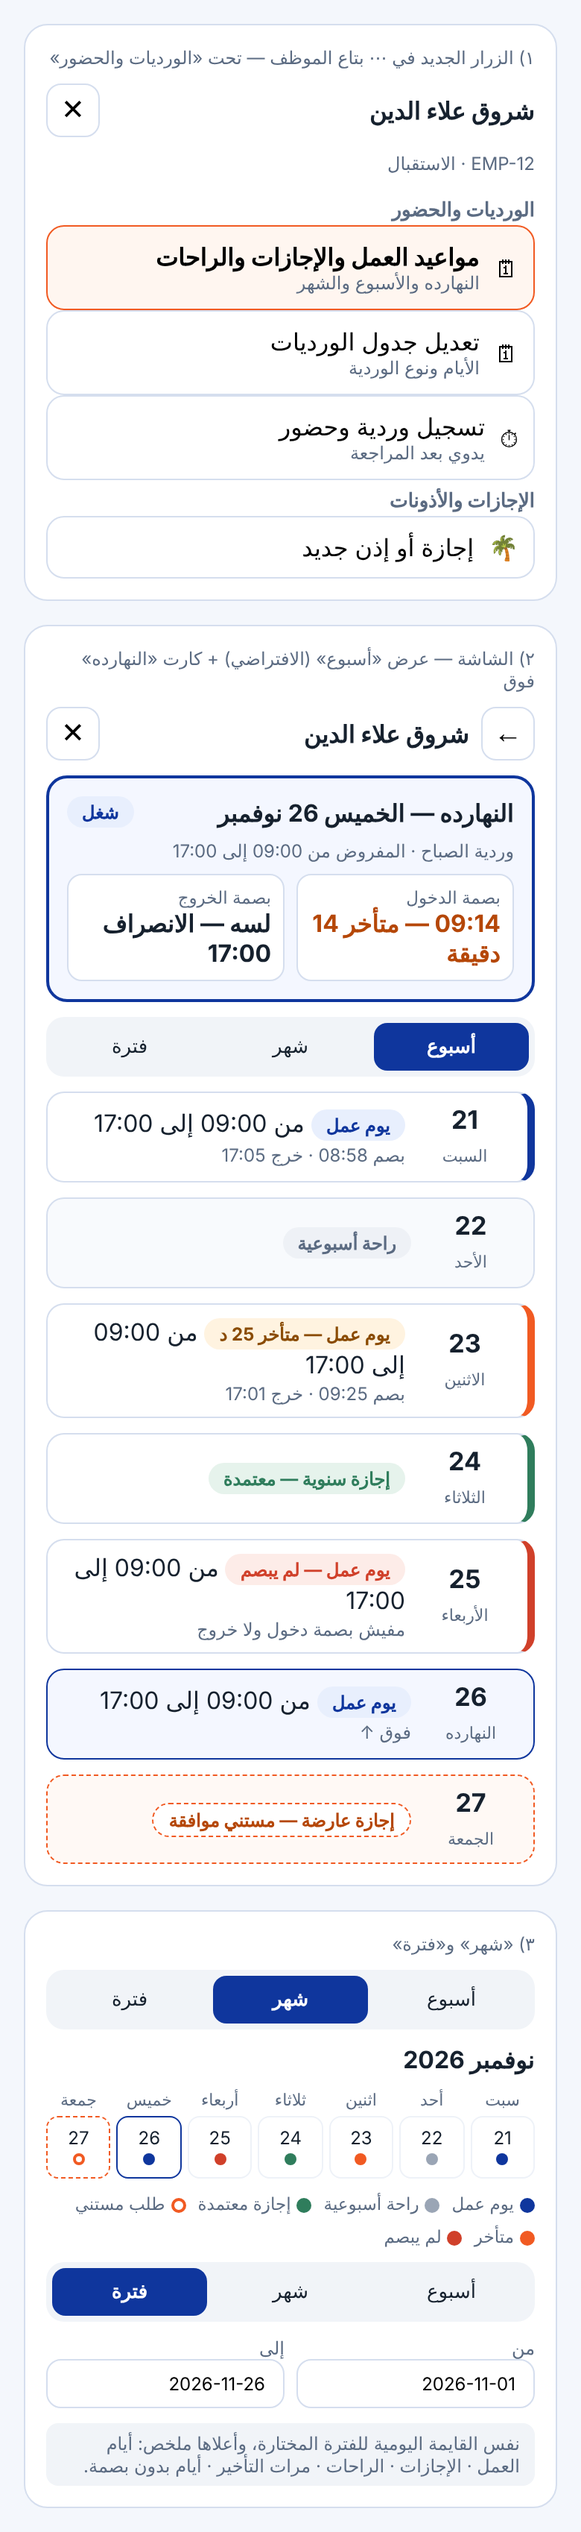
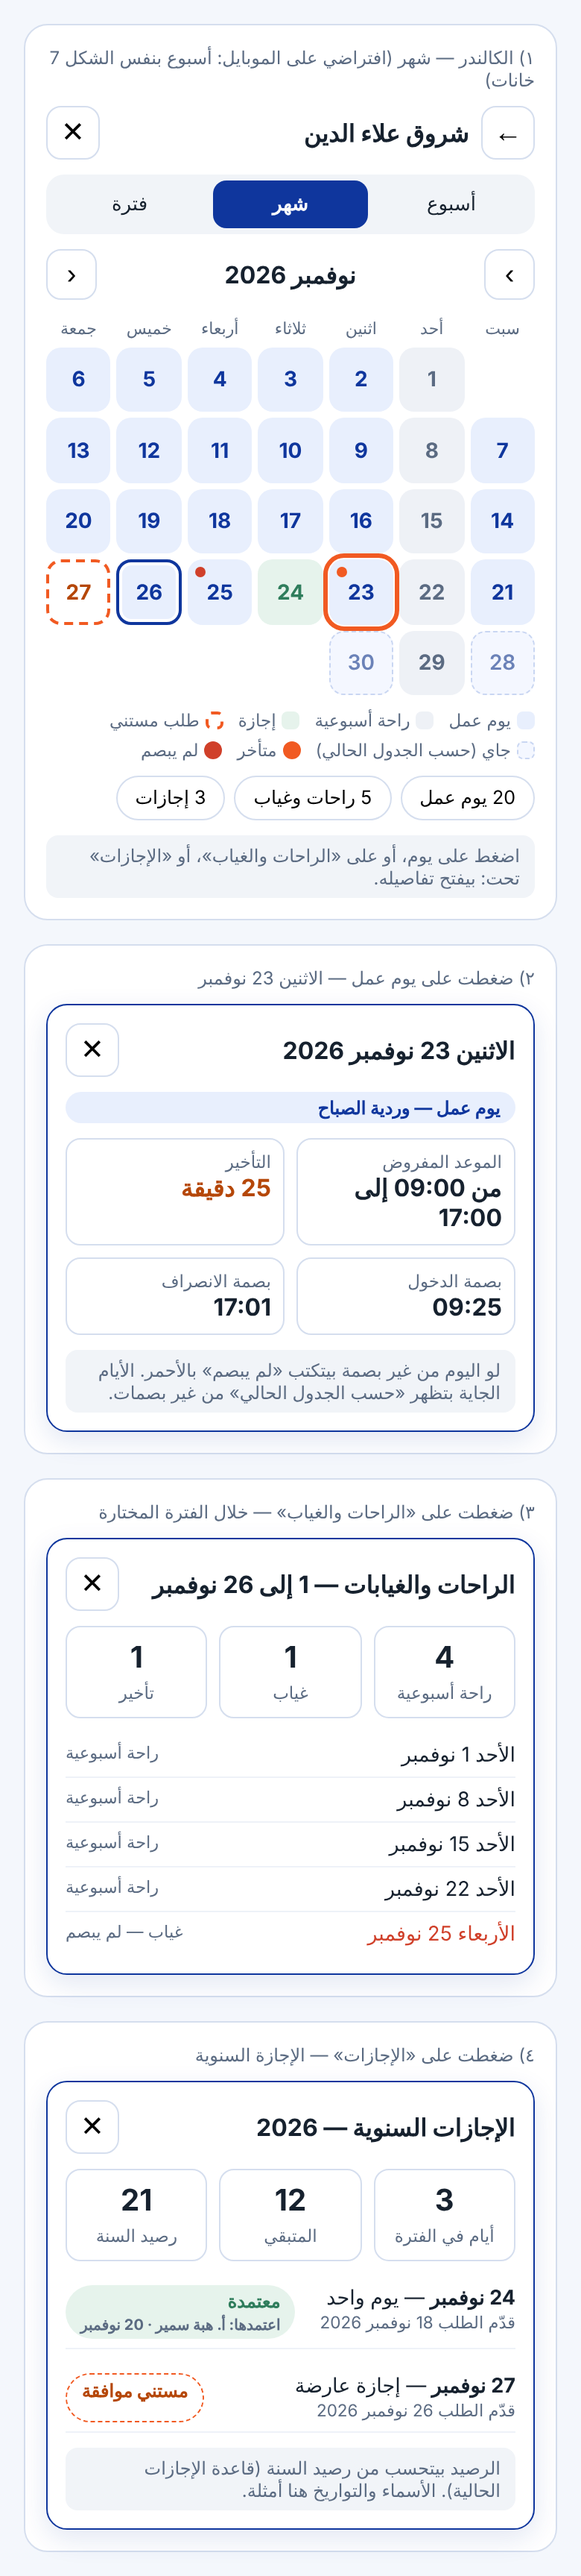
Mockup: work schedule as a real calendar with day/rest/leave details

diff --git a/docs/ui-references/mockups/hr-work-schedule.html b/docs/ui-references/mockups/hr-work-schedule.html
@@ -1,51 +1,57 @@
-<!doctype html><html lang="ar" dir="rtl"><meta charset="utf-8"><meta name="viewport" content="width=device-width,initial-scale=1"><title>تصور: مواعيد العمل والإجازات والراحات</title>
+<!doctype html><html lang="ar" dir="rtl"><meta charset="utf-8"><meta name="viewport" content="width=device-width,initial-scale=1"><title>تصور: مواعيد العمل والإجازات والراحات — كالندر</title>
 <style>*{box-sizing:border-box}body{margin:0;padding:16px;background:#f4f7fc;font-family:"Hiragino Kaku","BigVesta Arabic",system-ui,Tahoma,sans-serif;color:#16212E}
-.wrap{display:grid;grid-template-columns:repeat(3,minmax(0,1fr));gap:16px;max-width:1240px;margin:auto}
-.card{background:#fff;border:1px solid #D5DEEE;border-radius:16px;padding:14px;display:grid;gap:10px;align-content:start;min-width:0}.cap{font-size:12px;color:#5b6b82}h3,p{margin:0}h3{font-size:17px}
-.btn{border:1px solid #D5DEEE;background:#fff;border-radius:10px;padding:8px 12px;font:inherit;min-width:0}.pri{background:#0F369D;color:#fff;border-color:#0F369D}
+.wrap{display:grid;grid-template-columns:repeat(2,minmax(0,1fr));gap:16px;max-width:1100px;margin:auto}
+.card{background:#fff;border:1px solid #D5DEEE;border-radius:16px;padding:14px;display:grid;gap:10px;align-content:start;min-width:0}.cap{font-size:12px;color:#5b6b82}h3,p{margin:0}
+.btn{border:1px solid #D5DEEE;background:#fff;border-radius:10px;padding:8px 12px;font:inherit;min-width:0}
 .head{display:flex;align-items:center;justify-content:space-between;gap:8px}.hl{display:flex;align-items:center;gap:8px;min-width:0}.ic{width:36px;height:36px;border:1px solid #D5DEEE;background:#fff;border-radius:10px;font-size:19px;line-height:1;flex:none}
-.sheetg h4{margin:6px 0 2px;font-size:13px;color:#5b6b82}.act{display:flex;gap:10px;align-items:center;border:1px solid #D5DEEE;border-radius:12px;padding:10px;background:#fff;width:100%;text-align:start;font:inherit}.act small{display:block;color:#5b6b82;font-size:12px}.act.new{border-color:#F15A22;background:#FFF6F0}
 .seg{display:grid;grid-template-columns:repeat(3,minmax(0,1fr));gap:4px;background:#F1F4F8;border-radius:12px;padding:4px}.seg span{text-align:center;padding:8px 4px;border-radius:9px;font-size:13px}.seg .on{background:#0F369D;color:#fff;font-weight:700}
-.today{border:2px solid #0F369D;border-radius:14px;padding:12px;display:grid;gap:8px;background:#F4F7FF}.today .top{display:flex;justify-content:space-between;align-items:center;gap:8px}
-.chip{border-radius:999px;padding:3px 10px;font-size:12px;font-weight:700;display:inline-block}.c-work{background:#E8EFFD;color:#0F369D}.c-off{background:#EEF1F6;color:#5b6b82}.c-leave{background:#E6F3EC;color:#2F7D5C}.c-pend{background:#fff;border:1px dashed #F15A22;color:#B54708}.c-late{background:#FFF3E0;color:#8a4b00}.c-abs{background:#FDECE8;color:#D0402A}
-.punch{display:grid;grid-template-columns:1fr 1fr;gap:8px}.punch div{background:#fff;border:1px solid #D5DEEE;border-radius:10px;padding:8px}.punch small{display:block;color:#5b6b82;font-size:11.5px}.punch b.l{color:#B54708}.punch b.n{color:#D0402A}
-.day{display:grid;grid-template-columns:64px minmax(0,1fr);gap:8px;border:1px solid #D5DEEE;border-radius:12px;padding:8px 10px;align-items:center}.day .d{text-align:center;line-height:1.3}.day .d b{font-size:17px;display:block}.day .d small{color:#5b6b82;font-size:11px}
-.day.t{border-color:#0F369D;background:#F4F7FF}.day.off{background:#F8FAFD}.day.lv{border-inline-start:5px solid #2F7D5C}.day.pd{border:1px dashed #F15A22;background:#FFF9F5}.day.wk{border-inline-start:5px solid #0F369D}.day.ab{border-inline-start:5px solid #D0402A}.day.lt{border-inline-start:5px solid #F15A22}
-.day small.m{display:block;color:#5b6b82;font-size:12px;margin-top:2px}
-.mon{display:grid;grid-template-columns:repeat(7,minmax(0,1fr));gap:4px;text-align:center;font-size:12px}.mon .h{color:#5b6b82;font-size:11px}.mon .c{border:1px solid #EEF2F8;border-radius:8px;padding:6px 0;min-height:42px}.mon .c i{display:block;width:8px;height:8px;border-radius:50%;margin:3px auto 0}
-.legend{display:flex;flex-wrap:wrap;gap:8px;font-size:11.5px;color:#5b6b82}.legend i{display:inline-block;width:10px;height:10px;border-radius:50%;margin-inline-end:4px;vertical-align:middle}
+.nav{display:flex;align-items:center;justify-content:space-between}.nav b{font-size:16px}.nav .ic{width:34px;height:34px}
+.cal{display:grid;grid-template-columns:repeat(7,minmax(0,1fr));gap:4px}.cal .h{text-align:center;font-size:11px;color:#5b6b82;padding:2px 0}
+.c{position:relative;aspect-ratio:1/1;border-radius:10px;border:1px solid transparent;display:grid;place-items:center;font-size:14px;font-weight:700;min-width:0;background:#fff}
+.c.empty{background:none}.c.w{background:#E8EFFD;color:#0F369D}.c.f{background:#F4F7FF;color:#6b82b8;border:1px dashed #C9D6F2;font-weight:600}.c.off{background:#EEF1F6;color:#5b6b82}.c.lv{background:#E6F3EC;color:#2F7D5C}
+.c.pd{background:#fff;border:2px dashed #F15A22;color:#B54708}.c.t{border:2px solid #0F369D;box-shadow:0 0 0 2px #fff inset}.c.sel{outline:3px solid #F15A22;outline-offset:1px}
+.c i{position:absolute;top:4px;inset-inline-end:4px;width:7px;height:7px;border-radius:50%}.c i.l{background:#F15A22}.c i.a{background:#D0402A}
+.legend{display:flex;flex-wrap:wrap;gap:6px 10px;font-size:11.5px;color:#5b6b82}.legend span{display:inline-flex;align-items:center;gap:4px}.legend b{width:12px;height:12px;border-radius:4px;display:inline-block}
+.sum{display:flex;gap:6px;flex-wrap:wrap}.sum button{border:1px solid #D5DEEE;background:#fff;border-radius:999px;padding:6px 12px;font:inherit;font-size:12.5px}
+.sheet{border:1px solid #0F369D;border-radius:14px;padding:12px;display:grid;gap:10px;background:#fff;box-shadow:0 6px 18px rgba(15,54,157,.12)}
+.chip{border-radius:999px;padding:3px 10px;font-size:12px;font-weight:700;display:inline-block}.c-work{background:#E8EFFD;color:#0F369D}.c-off{background:#EEF1F6;color:#5b6b82}.c-leave{background:#E6F3EC;color:#2F7D5C}
+.kv{display:grid;grid-template-columns:1fr 1fr;gap:8px}.kv div{border:1px solid #D5DEEE;border-radius:10px;padding:8px}.kv small{display:block;color:#5b6b82;font-size:11.5px}.kv b.l{color:#B54708}.kv b.n{color:#D0402A}
+.li{display:flex;justify-content:space-between;gap:8px;border-bottom:1px solid #EEF2F8;padding:6px 0;font-size:13.5px}.li:last-child{border:0}.li small{color:#5b6b82}
+.big{display:grid;grid-template-columns:repeat(3,minmax(0,1fr));gap:8px;text-align:center}.big div{border:1px solid #D5DEEE;border-radius:10px;padding:8px}.big b{display:block;font-size:20px}.big small{color:#5b6b82;font-size:11.5px}
 .note{font-size:12px;color:#5b6b82;background:#F1F4F8;border-radius:8px;padding:6px 10px}
 @media(max-width:700px){.wrap{grid-template-columns:minmax(0,1fr)}}</style>
 <div class="wrap">
-<section class="card"><span class="cap">١) الزرار الجديد في ⋯ بتاع الموظف — تحت «الورديات والحضور»</span>
-<div class="head"><b>شروق علاء الدين</b><button class="ic" aria-label="إغلاق">✕</button></div><small class="cap">EMP-12 · الاستقبال</small>
-<div class="sheetg"><h4>الورديات والحضور</h4>
-<button class="act new"><span>🗓</span><span><b>مواعيد العمل والإجازات والراحات</b><small>النهارده والأسبوع والشهر</small></span></button>
-<button class="act"><span>🗓</span><span>تعديل جدول الورديات<small>الأيام ونوع الوردية</small></span></button>
-<button class="act"><span>⏱</span><span>تسجيل وردية وحضور<small>يدوي بعد المراجعة</small></span></button>
-<h4>الإجازات والأذونات</h4><button class="act"><span>🌴</span><span>إجازة أو إذن جديد</span></button></div></section>
-
-<section class="card"><span class="cap">٢) الشاشة — عرض «أسبوع» (الافتراضي) + كارت «النهارده» فوق</span>
+<section class="card"><span class="cap">١) الكالندر — شهر (افتراضي على الموبايل: أسبوع بنفس الشكل 7 خانات)</span>
 <div class="head"><span class="hl"><button class="ic" aria-label="رجوع">←</button><b>شروق علاء الدين</b></span><button class="ic" aria-label="إغلاق">✕</button></div>
-<div class="today"><div class="top"><b>النهارده — الخميس 26 نوفمبر</b><span class="chip c-work">شغل</span></div>
-<small class="cap">وردية الصباح · المفروض من <bdi dir="ltr">09:00</bdi> إلى <bdi dir="ltr">17:00</bdi></small>
-<div class="punch"><div><small>بصمة الدخول</small><b class="l">09:14 — متأخر 14 دقيقة</b></div><div><small>بصمة الخروج</small><b>لسه — الانصراف 17:00</b></div></div></div>
-<div class="seg"><span class="on">أسبوع</span><span>شهر</span><span>فترة</span></div>
-<div class="day wk"><div class="d"><b>21</b><small>السبت</small></div><div><span class="chip c-work">يوم عمل</span> من <bdi dir="ltr">09:00</bdi> إلى <bdi dir="ltr">17:00</bdi><small class="m">بصم 08:58 · خرج 17:05</small></div></div>
-<div class="day off"><div class="d"><b>22</b><small>الأحد</small></div><div><span class="chip c-off">راحة أسبوعية</span></div></div>
-<div class="day lt"><div class="d"><b>23</b><small>الاثنين</small></div><div><span class="chip c-late">يوم عمل — متأخر 25 د</span> من <bdi dir="ltr">09:00</bdi> إلى <bdi dir="ltr">17:00</bdi><small class="m">بصم 09:25 · خرج 17:01</small></div></div>
-<div class="day lv"><div class="d"><b>24</b><small>الثلاثاء</small></div><div><span class="chip c-leave">إجازة سنوية — معتمدة</span></div></div>
-<div class="day ab"><div class="d"><b>25</b><small>الأربعاء</small></div><div><span class="chip c-abs">يوم عمل — لم يبصم</span> من <bdi dir="ltr">09:00</bdi> إلى <bdi dir="ltr">17:00</bdi><small class="m">مفيش بصمة دخول ولا خروج</small></div></div>
-<div class="day t"><div class="d"><b>26</b><small>النهارده</small></div><div><span class="chip c-work">يوم عمل</span> من <bdi dir="ltr">09:00</bdi> إلى <bdi dir="ltr">17:00</bdi><small class="m">فوق ↑</small></div></div>
-<div class="day pd"><div class="d"><b>27</b><small>الجمعة</small></div><div><span class="chip c-pend">إجازة عارضة — مستني موافقة</span></div></div></section>
-
-<section class="card"><span class="cap">٣) «شهر» و«فترة»</span>
 <div class="seg"><span>أسبوع</span><span class="on">شهر</span><span>فترة</span></div>
-<b>نوفمبر 2026</b>
-<div class="mon"><span class="h">سبت</span><span class="h">أحد</span><span class="h">اثنين</span><span class="h">ثلاثاء</span><span class="h">أربعاء</span><span class="h">خميس</span><span class="h">جمعة</span>
-<div class="c">21<i style="background:#0F369D"></i></div><div class="c">22<i style="background:#9AA5B5"></i></div><div class="c">23<i style="background:#F15A22"></i></div><div class="c">24<i style="background:#2F7D5C"></i></div><div class="c">25<i style="background:#D0402A"></i></div><div class="c" style="border-color:#0F369D">26<i style="background:#0F369D"></i></div><div class="c" style="border-style:dashed;border-color:#F15A22">27<i style="background:#fff;border:2px solid #F15A22"></i></div></div>
-<div class="legend"><span><i style="background:#0F369D"></i>يوم عمل</span><span><i style="background:#9AA5B5"></i>راحة أسبوعية</span><span><i style="background:#2F7D5C"></i>إجازة معتمدة</span><span><i style="background:#fff;border:2px solid #F15A22"></i>طلب مستني</span><span><i style="background:#F15A22"></i>متأخر</span><span><i style="background:#D0402A"></i>لم يبصم</span></div>
-<div class="seg"><span>أسبوع</span><span>شهر</span><span class="on">فترة</span></div>
-<div style="display:grid;grid-template-columns:1fr 1fr;gap:8px"><label class="cap">من<input class="btn" style="width:100%" value="2026-11-01"></label><label class="cap">إلى<input class="btn" style="width:100%" value="2026-11-26"></label></div>
-<div class="note">نفس القايمة اليومية للفترة المختارة، وأعلاها ملخص: أيام العمل · الإجازات · الراحات · مرات التأخير · أيام بدون بصمة.</div></section>
+<div class="nav"><button class="ic" aria-label="الشهر السابق">›</button><b>نوفمبر 2026</b><button class="ic" aria-label="الشهر التالي">‹</button></div>
+<div class="cal"><span class="h">سبت</span><span class="h">أحد</span><span class="h">اثنين</span><span class="h">ثلاثاء</span><span class="h">أربعاء</span><span class="h">خميس</span><span class="h">جمعة</span>
+<div class="c empty"></div><div class="c off">1</div><div class="c w">2</div><div class="c w">3</div><div class="c w">4</div><div class="c w">5</div><div class="c w">6</div>
+<div class="c w">7</div><div class="c off">8</div><div class="c w">9</div><div class="c w">10</div><div class="c w">11</div><div class="c w">12</div><div class="c w">13</div>
+<div class="c w">14</div><div class="c off">15</div><div class="c w">16</div><div class="c w">17</div><div class="c w">18</div><div class="c w">19</div><div class="c w">20</div>
+<div class="c w">21</div><div class="c off">22</div><div class="c w sel">23<i class="l"></i></div><div class="c lv">24</div><div class="c w">25<i class="a"></i></div><div class="c t w">26</div><div class="c pd">27</div>
+<div class="c f">28</div><div class="c off">29</div><div class="c f">30</div></div>
+<div class="legend"><span><b style="background:#E8EFFD"></b>يوم عمل</span><span><b style="background:#EEF1F6"></b>راحة أسبوعية</span><span><b style="background:#E6F3EC"></b>إجازة</span><span><b style="border:2px dashed #F15A22"></b>طلب مستني</span><span><b style="background:#F4F7FF;border:1px dashed #C9D6F2"></b>جاي (حسب الجدول الحالي)</span><span><b style="background:#F15A22;border-radius:50%"></b>متأخر</span><span><b style="background:#D0402A;border-radius:50%"></b>لم يبصم</span></div>
+<div class="sum"><button>20 يوم عمل</button><button>5 راحات وغياب</button><button>3 إجازات</button></div>
+<div class="note">اضغط على يوم، أو على «الراحات والغياب»، أو «الإجازات» تحت: بيفتح تفاصيله.</div></section>
+
+<section class="card"><span class="cap">٢) ضغطت على يوم عمل — الاثنين 23 نوفمبر</span>
+<div class="sheet"><div class="head"><b>الاثنين 23 نوفمبر 2026</b><button class="ic" aria-label="إغلاق">✕</button></div>
+<span class="chip c-work">يوم عمل — وردية الصباح</span>
+<div class="kv"><div><small>الموعد المفروض</small><b>من <bdi dir="ltr">09:00</bdi> إلى <bdi dir="ltr">17:00</bdi></b></div><div><small>التأخير</small><b class="l">25 دقيقة</b></div>
+<div><small>بصمة الدخول</small><b>09:25</b></div><div><small>بصمة الانصراف</small><b>17:01</b></div></div>
+<div class="note">لو اليوم من غير بصمة بيتكتب «لم يبصم» بالأحمر. الأيام الجاية بتظهر «حسب الجدول الحالي» من غير بصمات.</div></div></section>
+
+<section class="card"><span class="cap">٣) ضغطت على «الراحات والغياب» — خلال الفترة المختارة</span>
+<div class="sheet"><div class="head"><b>الراحات والغيابات — 1 إلى 26 نوفمبر</b><button class="ic" aria-label="إغلاق">✕</button></div>
+<div class="big"><div><b>4</b><small>راحة أسبوعية</small></div><div><b>1</b><small>غياب</small></div><div><b>1</b><small>تأخير</small></div></div>
+<div><div class="li"><span>الأحد 1 نوفمبر</span><small>راحة أسبوعية</small></div><div class="li"><span>الأحد 8 نوفمبر</span><small>راحة أسبوعية</small></div><div class="li"><span>الأحد 15 نوفمبر</span><small>راحة أسبوعية</small></div><div class="li"><span>الأحد 22 نوفمبر</span><small>راحة أسبوعية</small></div>
+<div class="li" style="color:#D0402A"><span>الأربعاء 25 نوفمبر</span><small>غياب — لم يبصم</small></div></div></div></section>
+
+<section class="card"><span class="cap">٤) ضغطت على «الإجازات» — الإجازة السنوية</span>
+<div class="sheet"><div class="head"><b>الإجازات السنوية — 2026</b><button class="ic" aria-label="إغلاق">✕</button></div>
+<div class="big"><div><b>3</b><small>أيام في الفترة</small></div><div><b>12</b><small>المتبقي</small></div><div><b>21</b><small>رصيد السنة</small></div></div>
+<div class="li"><span><b>24 نوفمبر</b> — يوم واحد<br><small>قدّم الطلب 18 نوفمبر 2026</small></span><span class="chip c-leave">معتمدة<br><small>اعتمدها: أ. هبة سمير · 20 نوفمبر</small></span></div>
+<div class="li"><span><b>27 نوفمبر</b> — إجازة عارضة<br><small>قدّم الطلب 26 نوفمبر 2026</small></span><span class="chip" style="border:1px dashed #F15A22;color:#B54708">مستني موافقة</span></div>
+<div class="note">الرصيد بيتحسب من رصيد السنة (قاعدة الإجازات الحالية). الأسماء والتواريخ هنا أمثلة.</div></div></section>
 </div>
